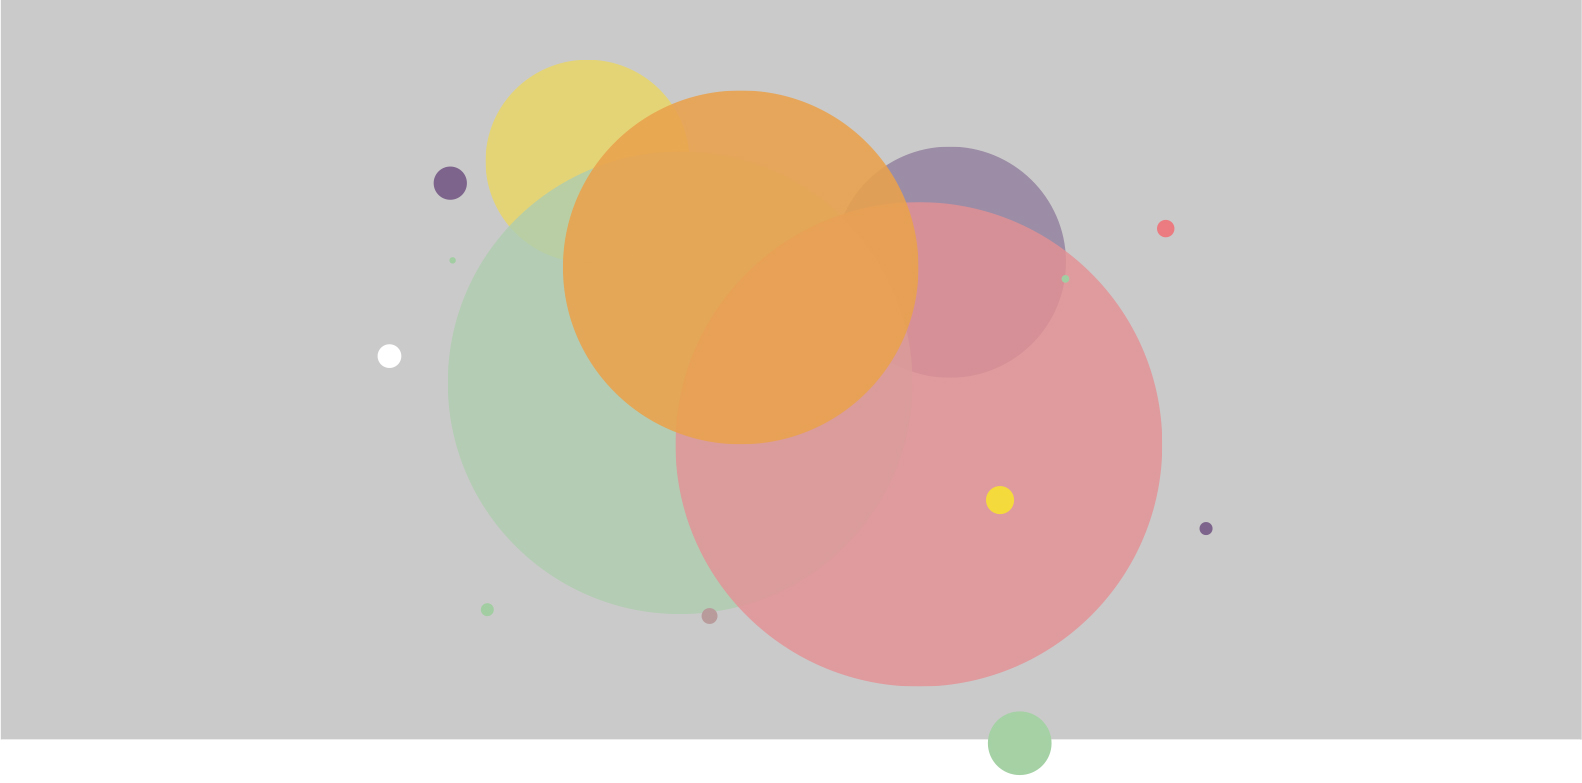
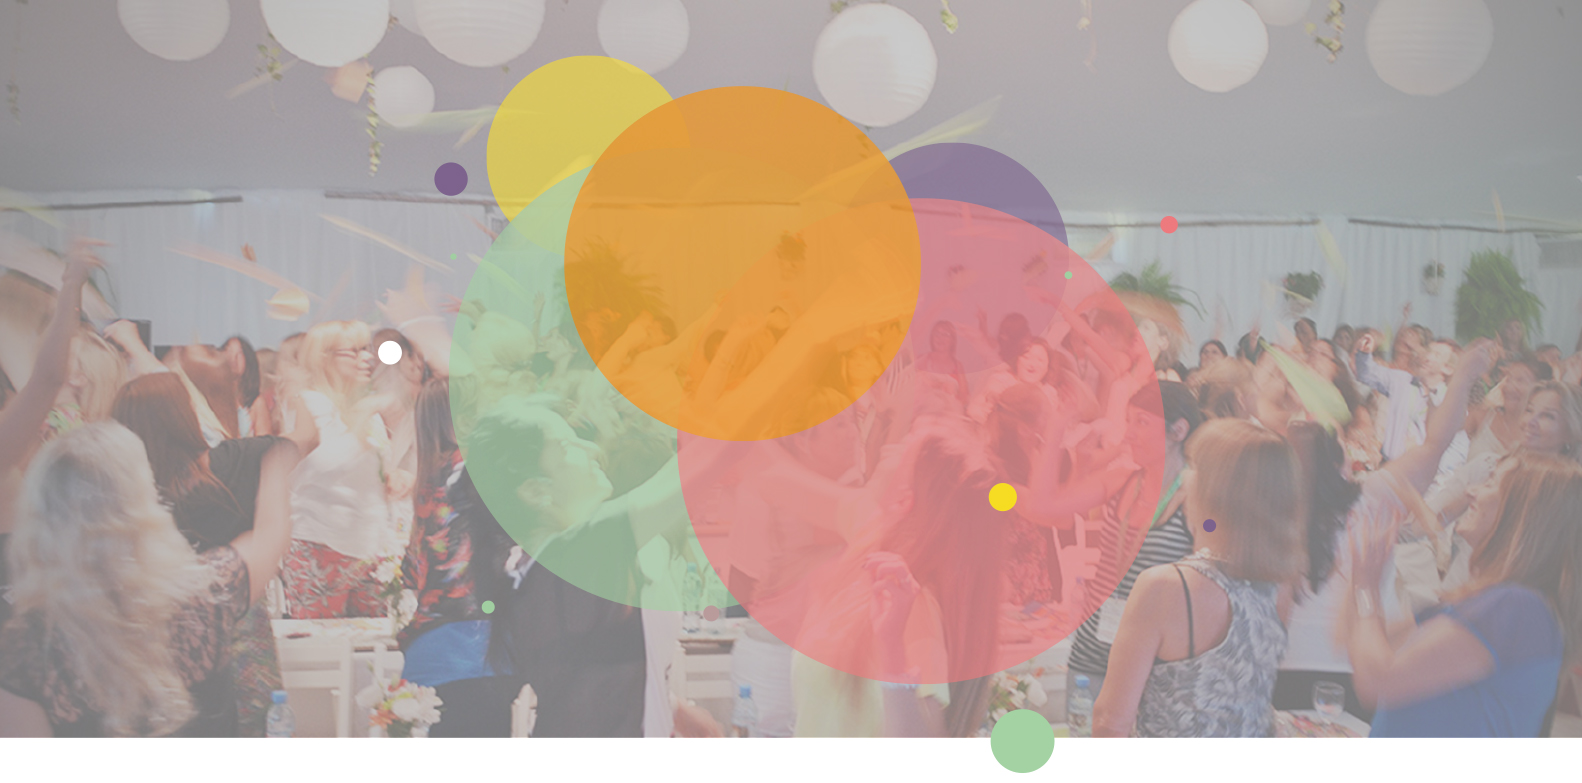
Buenos Aires
Buenos Aires screen

diff --git a/bsas.html b/bsas.html
@@ -1,0 +1,138 @@
+<!DOCTYPE html>
+<html lang="en">
+
+<head>
+    <meta charset="utf-8">
+    <meta http-equiv="X-UA-Compatible" content="IE=edge">
+    <meta name="viewport" content="width=device-width, initial-scale=1">
+    <meta name="description" content="Natura">
+    <meta name="author" content="Sandbox Agency <rocio@sandboxdyc.com>">
+    <title>Natura</title>
+    <!-- css -->
+    <link href="css/bootstrap.min.css" rel="stylesheet">
+    <link href="css/animate.css" rel="stylesheet">
+    <link href="css/generals.css" rel="stylesheet">
+    <link href="css/bsbs.css" rel="stylesheet">
+    <link href="fonts/stylesheet.css" rel="stylesheet">
+    <!-- HTML5 shim and Respond.js for IE8 support of HTML5 elements and media queries -->
+    <!-- WARNING: Respond.js doesn't work if you view the page via file:// -->
+    <!--[if lt IE 9]>
+      <script src="https://oss.maxcdn.com/html5shiv/3.7.2/html5shiv.min.js"></script>
+      <script src="https://oss.maxcdn.com/respond/1.4.2/respond.min.js"></script>
+    <![endif]-->
+</head>
+
+<body>
+    <section class="header-box">
+      <div class="container">
+        <div class="title">
+                <img src="img/natura.png" alt="natura logo" />
+                <p class="title">Natura<span>valora<span></p>
+                <h1>Buenos Aires</h1>
+        </div>
+      <div class="scroll">
+        <img src="img/scrolling_down.png" alt="scrolling icon" />
+      </div>
+    </div>
+    </section>
+
+    <section class="text">
+      <div class="container">
+        <div class="date">
+          19
+        </div>
+        <div class="month">
+          sep
+        </div>
+        <div class="info">
+          Teatro Gran Rex<br/>
+          09:00 a 13:00 hs<br/>
+          <span>Entrada gratuita</span>
+        </div>
+      </div>
+    </section>
+    <div class="btn_reserva"><a href="bsas_reserva.html" title="realiza tu reserva"><img src="img/reserva_btn_bsas.png" alt="realizar reserva" /></a></div>
+
+    <section class="people">
+      <div class="container">
+        <div class="col-md-4">
+          <img src="img/people_1_bsas.png" alt="Pedro Gonzales" />
+          <p class="nombre">Pedro Gonzales</p>
+          <p class="text">Gerente General de Operación Natura Argentina</p>
+          <p class="quote">Esencia y Pasión</p>
+        </div>
+        <div class="col-md-4">
+          <img src="img/people_2_bsas.png" alt="Pedro Gonzales" />
+          <p class="nombre">Veronica Mendoza</p>
+          <p class="text">Maquilladora Oficial Natura Argentina</p>
+          <p class="quote">Responde tus preguntas en vivo</p>
+        </div>
+        <div class="col-md-4">
+          <img src="img/people_3_bsas.png" alt="Pedro Gonzales" />
+          <p class="nombre">Gustavo Moraes</p>
+          <p class="text">Gerente Comercial Natura Argentina</p>
+          <p class="quote">Claves para el éxito</p>
+        </div>
+      
+      </div>
+    </section>
+    <section class="location">
+      <div class="fluid_container">
+        <div class="title">Lugar<br/>del evento</div>
+        <img src="img/map_bsas.jpg" alt="location in Buenos Aires" />
+      </div>
+    </section>
+
+    <section class="legals">
+      <div class="container">
+        <div class="col-md-3 col-xs-6 ">
+          <ul>
+            <li class="title">Sitios de marca</li>
+            <li> > Natura EKOS</li>
+            <li> > Natura Plant</li>
+            <li> > Natura Amó</li>
+            <li> > Natura Tododia</li>
+            <li> > Natura Chronos</li>
+            <li> > Natura Homem</li>
+            <li> > Sustentabilidad</li>
+            <li> > Portal de maquillaje</li>
+          </ul>
+        </div>
+        <div class="col-md-3 col-xs-6 ">
+          <ul>
+            <li class="title">Aplicaciones</li>
+            <li> > Revista Digital Android</li>
+            <li> > Revista Digital iOS</li>
+          </ul>
+          <ul class="second">
+            <li class="title">Sitio Mobile</li>
+            <li> > Natura Mobile AR</li>
+          </ul>
+        </div>
+        <div class="col-md-3 col-xs-6 ">
+          <ul>
+            <li class="title">SNAC</li>
+            <li>Servicio Natura de Atención al Consumidor(SNAC) 0800-888-6288</li>
+          </ul>
+        </div>
+        <div class="col-md-3 col-xs-6 image">
+          <img src="img/legal.jpg" alt="legales" />
+        </div>
+      </div>
+    </section>
+
+    <footer>
+      <div class="container">
+      <p>© 2015 NATURA</p>
+    </div>
+    </footer>
+
+
+
+    <!-- jQuery  -->
+    <script src="https://ajax.googleapis.com/ajax/libs/jquery/1.11.3/jquery.min.js"></script>
+    <!-- JS -->
+    <script src="js/bootstrap.min.js"></script>
+    <script src="js/wow.min.js"></script>
+  </body>
+</html>

diff --git a/css/bsbs.css b/css/bsbs.css
@@ -1,0 +1,131 @@
+section.header-box {
+    background: #ff8200 url('../img/background_bsas_header_box.jpg') no-repeat;
+    background-size: 100%;
+    text-align: center;
+    color: #ffffff;
+    padding: 10% 0 24% 0;
+    position: relative;
+}
+
+section.header-box h1 {
+    font-size: 66px;
+    color: #896667;
+    font-weight: normal;
+    margin: 0;
+}
+
+section.header-box p.title {
+    text-transform: uppercase;
+    font-weight: 100;
+    margin: 1% auto;
+    font-size: 24px;
+}
+
+section.header-box p.title span {
+    font-family: 'latoregular';
+}
+
+section.header-box .scroll {
+    margin-top: 5%;
+}
+
+section.text {
+    background-color: #ff8200;
+    color: #ffffff;
+    padding: 0 0 16% 0;
+}
+
+section.text div div {
+    float: left;
+    margin: 0 2%;
+}
+
+section.text .container {
+    width: 36%;
+}
+
+section.text .date {
+    font-size: 90px;
+    text-align: right;
+    width: auto;
+    font-family: 'latoregular';
+}
+
+section.text .month {
+    font-size: 40px;
+    border-top: 1px solid #ffffff;
+    border-bottom: 1px solid #ffffff;
+    width: auto;
+    font-family: 'latoregular';
+    text-align: center;
+    margin-top: 8%;
+}
+
+section.text .info {
+    font-size: 21px;
+    text-align: center;
+    float: right;
+    margin-top: 6%;
+}
+
+section.text .info span {
+    color: #f9d08c;
+}
+
+.btn_reserva {
+    text-align: center;
+    margin-top: -6%;
+    z-index: 1;
+}
+
+section.people {
+    background-color: #ffffff;
+    text-align: center;
+    padding: 4% 0 10% 0;
+}
+
+section.people p {
+    width: 70%;
+    margin: 0 auto;
+}
+
+section.people p.nombre {
+    color: #ff8200;
+    margin-top: 10%;
+}
+
+section.people p.text {
+    font-size: 14px;
+    margin-bottom: 2%;
+}
+
+section.people p.quote {
+    font-size: 18px;
+    margin-top: 6%;
+}
+
+section.location {
+    position: relative;
+}
+
+section.location img {
+    width: 100%;
+}
+
+section.location .title {
+    background: #ff8200;
+    width: 160px;
+    height: 160px;
+    color: #ffffff;
+    text-align: center;
+    border-radius: 100px;
+    -webkit-border-radius: 100px;
+    -moz-border-radius: 100px;
+    top: -20%;
+    left: 43%;
+    position: absolute;
+    z-index: 1;
+    font-size: 20px;
+    padding-top: 60px;
+    line-height: 1;
+}

diff --git a/css/home.css b/css/home.css
@@ -1,7 +1,6 @@
-
-
 section.header-box {
-    background: url('../img/background_header_box.jpg') no-repeat 100%;
+    background: url('../img/background_header_box.jpg') no-repeat;
+    background-size: 100%;
     text-align: center;
     color: #ffffff;
     padding: 14% 0;
@@ -24,10 +23,7 @@ section.header-box p.title span {
 }
 
 section.header-box .scroll {
-    position: absolute;
-    bottom: 5%;
-    right: 49%;
-    z-index: 1;
+    margin-top: 5%;
 }
 
 section.text {
@@ -39,7 +35,7 @@ section.text p {
     width: 80%;
     margin: 0 auto;
     text-align: center;
-    
+
 }
 
 section.text p.min {
@@ -82,4 +78,3 @@ section.links p {
     margin-top: 6%;
 }
 
-section.legals {}
